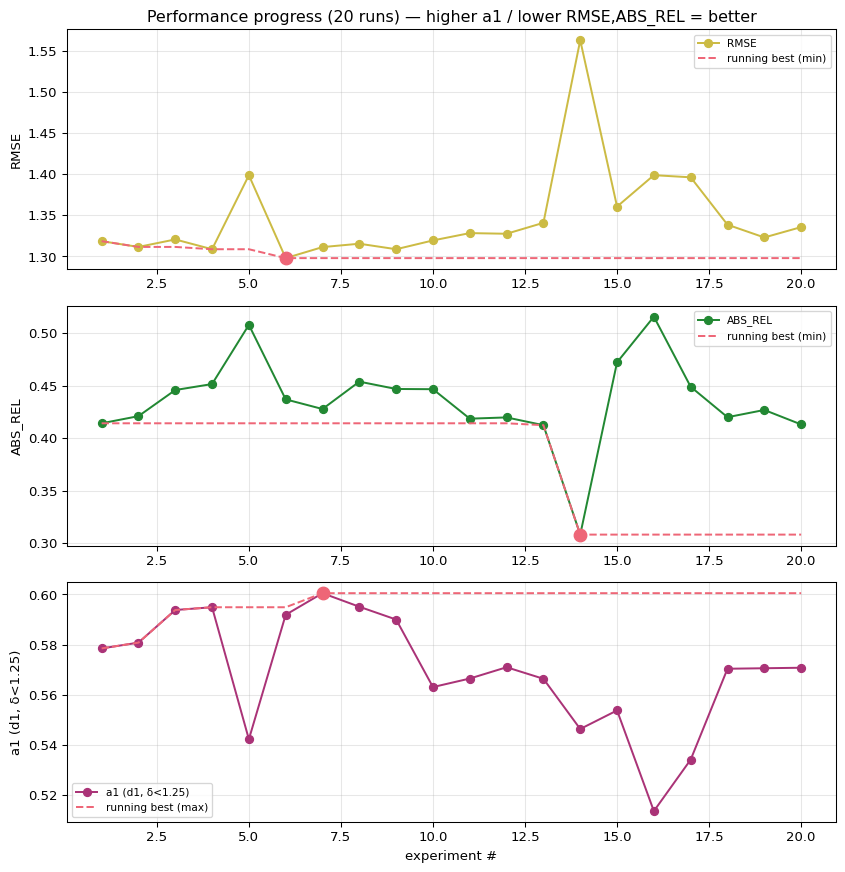
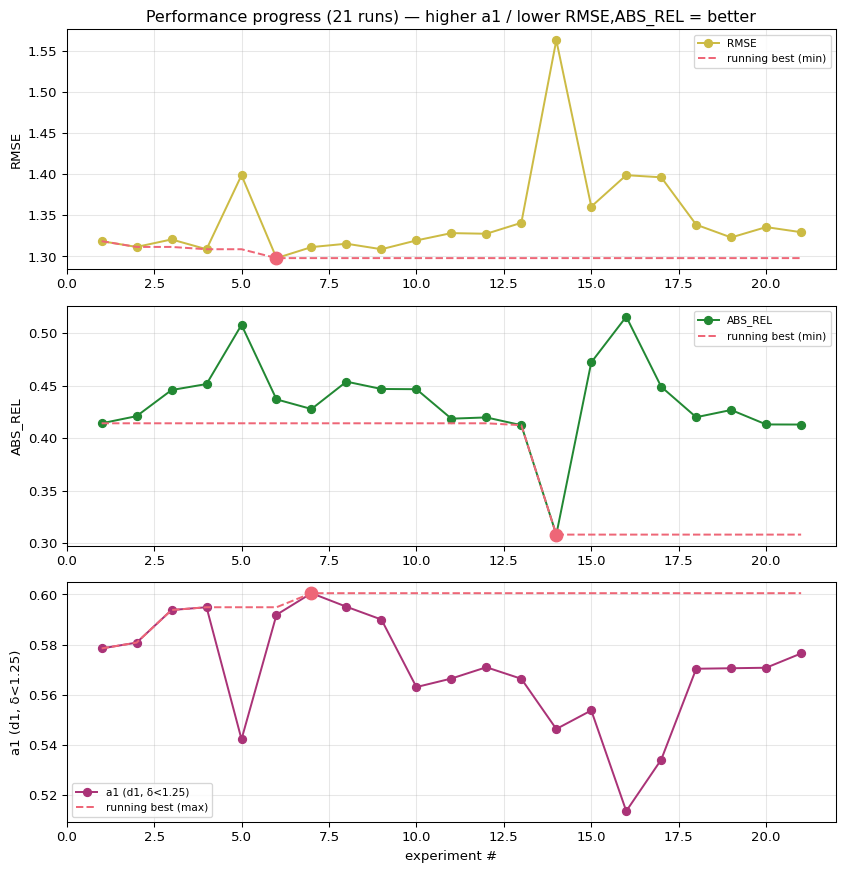
E23 closes the 2x2 and overturns my reading: new champion 1.8962, the fast knobs are NOT free
E23 raydpt_e23_ctrl_lr3e4 (win5/ffn4 @ lr 3e-4): abs_rel 0.4131  rmse 1.3295  d1 0.5765
composite 1.8962, 22 epochs, best at 16, stable. The best RayDPT of the project.

                lr 1.2e-3        lr 6e-4          lr 3e-4
  win5 ffn4     E11 1.9093       E22 1.9125       E23 1.8962   <- champion
  win3 ffn2     E17 DIVERGED     E20 1.9176       E21 1.9099

The completed square says something different from the partial one:

    lr 3e-4 at win5/ffn4   GAINS 0.0131   (E11 -> E23)   above sigma
    fast knobs at lr 3e-4  COST  0.0137   (E23 -> E21)   above sigma
    fast knobs at lr 6e-4  cost  0.0051   (E22 -> E20)   below sigma

E21's parity with E11 (+0.0006) was a COINCIDENCE of two opposing real effects that nearly cancel.
At lr 6e-4 the knob cost is sub-sigma, which is exactly what made them look free. Had I stopped
before E23 -- and the temptation was there, since E21 already "matched the champion" -- I would
have adopted a configuration that quietly costs 0.0137, and I would have cited two sub-sigma cells
as my evidence.

I16 is dropped. The knobs are not free; they are a SCREENING configuration with a measured price:
1.21x faster (118.8 vs 143.3 s/epoch) on 10% fewer parameters, for 0.0137 of composite. Scored runs
revert to win32=5, ffn=4, and the flag's help text now carries the number so the trade is visible
at the point of use.

I18 is validated, and more strongly than before. The linear scaling rule did not merely risk
[…]

diff --git a/train.py b/train.py
@@ -914,9 +914,10 @@ def parse_args():
                         'magnitude, which is what saturated in E15/E17 (D11, idea I15).')
     p.add_argument('--dim', type=int, default=192, help='ray/token width')
     p.add_argument('--n-heads', type=int, default=4)
-    p.add_argument('--raydpt-win32', type=int, default=3,
-                   help='local spherical attention window at 32x64. 5 -> 25 offsets, 3 -> 9; '
-                        'measured 1.20x faster at win=3.')
+    p.add_argument('--raydpt-win32', type=int, default=5,
+                   help='local spherical attention window at 32x64. 5 -> 25 offsets, 3 -> 9. '
+                        'MEASURED (F1): win=3 with ffn=2 runs 1.21x faster but costs +0.0137 composite '
+                        'at lr 3e-4 (E23 1.8962 -> E21 1.9099), ABOVE sigma. Use for SCREENING, not scoring.')
     p.add_argument('--raydpt-win64', type=int, default=3,
                    help='local spherical attention window at 64x128 (unused when decode-scale=32)')
     p.add_argument('--time-budget', type=int, default=3600,
@@ -925,7 +926,7 @@ def parse_args():
     p.add_argument('--main-loss', type=str, default='mae', choices=['mae', 'rel_mae', 'log_mae'],
                    help="dense term. 'mae' drives to the conditional median and compresses far depth; "
                         "'rel_mae'/'log_mae' charge relative error, aligning the loss with d1 (idea I13).")
-    p.add_argument('--ffn-mult', type=int, default=2,
+    p.add_argument('--ffn-mult', type=int, default=4,
                    help='CrossBlock FFN expansion. Most per-token FLOPs live here (idea I12).')
     p.add_argument('--cross-kv32', type=str, default='e4', choices=['e3', 'e4'],
                    help="audio tokens the 32-scale rays attend to: e3 (2048, original) or e4 (512, 4x cheaper)")

diff --git a/utils/report.py b/utils/report.py
@@ -79,9 +79,9 @@ def _model_registry():
         # checkpoint trained before that must be rebuilt with the flags it was trained WITH, or
         # load_state_dict finds missing keys and the tile silently renders "pending".
         ('current (my model)', train,
-         os.path.join(ROOT, 'checkpoints', 'raydpt_e11_d32L2_kve4', 'best_model.pth'),
+         os.path.join(ROOT, 'checkpoints', 'raydpt_e23_ctrl_lr3e4', 'best_model.pth'),
          dict(decode_scale=32, ray_cross_layers=2, cross_kv32='e4',
-              raydpt_win32=5, ffn_mult=4)),            # E11: 32x64 decode, 2 cross layers
+              raydpt_win32=5, ffn_mult=4)),            # E23: champion, lr 3e-4 (unscaled)
     ]
 
 

diff --git a/README.md b/README.md
@@ -31,7 +31,6 @@ Autonomous research — binaural echoes → ERP planar (cubemap) depth (SoundSpa
 | `I7` | sensing physics / angular resolution | far | two microphones may fundamentally under-determine high azimuthal frequencies | candidate | Do not chase high-frequency power as a goal. Re-test the observability claim once RayDPT c |
 | `I10` | acoustic-representation / interpolation | mid | the nearest-neighbour resize in _features() turns the time axis into a coarse staircase | inconclusive | deferred confirm: run `--feat-interp bilinear --stft-hop 40` after the RayDPT throughput s |
 | `I14` | ray conditioning / audio token routing | mid | far-field rays cannot see the late, weak echo that carries distance | probing | E16 (control) then E15b (treatment), both at lr 6e-4. Pre-registered falsification unchang |
-| `I16` | throughput / experiment economics | near | iteration speed IS a research variable under a wall-clock budget | candidate | Answerable at last: E22 vs E20 isolates win32/ffn at matched lr. Until then the fast defau |
 | `I19` | ray conditioning / physically-structured decoding | far | the model must LEARN that echo delay encodes depth, and it fails to, collapsing far surfaces toward the median | probing | E24 queued behind the attribution runs; the queue benchmarks cost first. |
 
 ### Open discrepancies
@@ -49,6 +48,7 @@ Autonomous research — binaural echoes → ERP planar (cubemap) depth (SoundSpa
 
 | When | Mode | Event | Note |
 |---|---|---|---|
+| 2026-07-10T22:37 | `exploit` | experiment_completed | NEW RayDPT CHAMPION 1.8962 (win5/ffn4 @ lr 3e-4, 22 epochs, stable). Closing the 2x2 OVERTURNED the previous reading: lr 3e-4 gain |
 | 2026-07-10T21:33 | `exploit` | experiment_completed | Control win5/ffn4 @ lr 6e-4: composite 1.9125, stable. 2x2 complete except E23. At matched lr the fast knobs cost +0.0051 (below s |
 | 2026-07-10T20:48 | `exploit` | idea_added | STRUCTURAL, not a loss change. The encoder's width axis IS time, so e3's 64 columns are depth hypotheses (d = c*t/2, 0.08-9.92m).  |
 | 2026-07-10T20:33 | `exploit` | experiment_completed | fast config at lr 3e-4: composite 1.9099, stable (max mae jump 0.99), converged (best ep19/25). Matches the E11 champion (1.9093)  |
@@ -56,7 +56,6 @@ Autonomous research — binaural echoes → ERP planar (cubemap) depth (SoundSpa
 | 2026-07-10T18:30 | `exploit` | experiment_completed | DIVERGED at ep7 despite w_coarse_layout=0, never recovered (val d1 0.5342 -> 0.1307; lc pinned at 0.1849, D_coarse saturated to a  |
 | 2026-07-10T18:16 | `exploit` | candidate_dropped | PREMISE REFUTED BY ITS OWN EXPERIMENT. E18 removed lc from the loss entirely and the run still destabilised (mae x1.51 at epoch 7, |
 | 2026-07-10T17:58 | `exploit` | experiment_completed | DIVERGED at epoch 5 (lc 0.0633 -> 0.3209, never recovers). Recorded as discard. Not a test of the fast knobs' accuracy -- a second |
-| 2026-07-10T16:44 | `explore` | discrepancy_recorded | D11: E15 DIVERGED at epoch 4 with the parent's lr. The blow-up is entirely in lc, the coarse-layout term (0.4402 vs 0.0618) -- and |
 
 *Updated by `python utils/report.py research`. Champion: none yet.*
 <!-- RESEARCH:END -->
@@ -110,6 +109,7 @@ running best highlighted):
 | 18 | `0909a2d` | 0.4201 | 1.3386 | 0.5704 | 1.9176 | keep | E20 FAST config (win32=3 ffn=2) at lr 6e-4 (F1/I18: is the instability the optimiser?) |
 | 19 | `0909a2d` | 0.4270 | 1.3231 | 0.5706 | 1.9099 | keep | E21 FAST config at lr 3e-4 (F1/I18 3-trial ladder) |
 | 20 | `7bf10af` | 0.4132 | 1.3357 | 0.5708 | 1.9125 | keep | E22 CONTROL win5 ffn4 @ lr 6e-4 (F1 attribution: knobs vs lr) |
+| 21 | `1c34d7c` | 0.4131 | 1.3295 | 0.5765 | 1.8962 | keep | E23 CONTROL win5 ffn4 @ lr 3e-4 (F1 attribution: closes the 2x2) |
 <!-- RESULTS:END -->
 
 ## Progression (composite, lower = better)